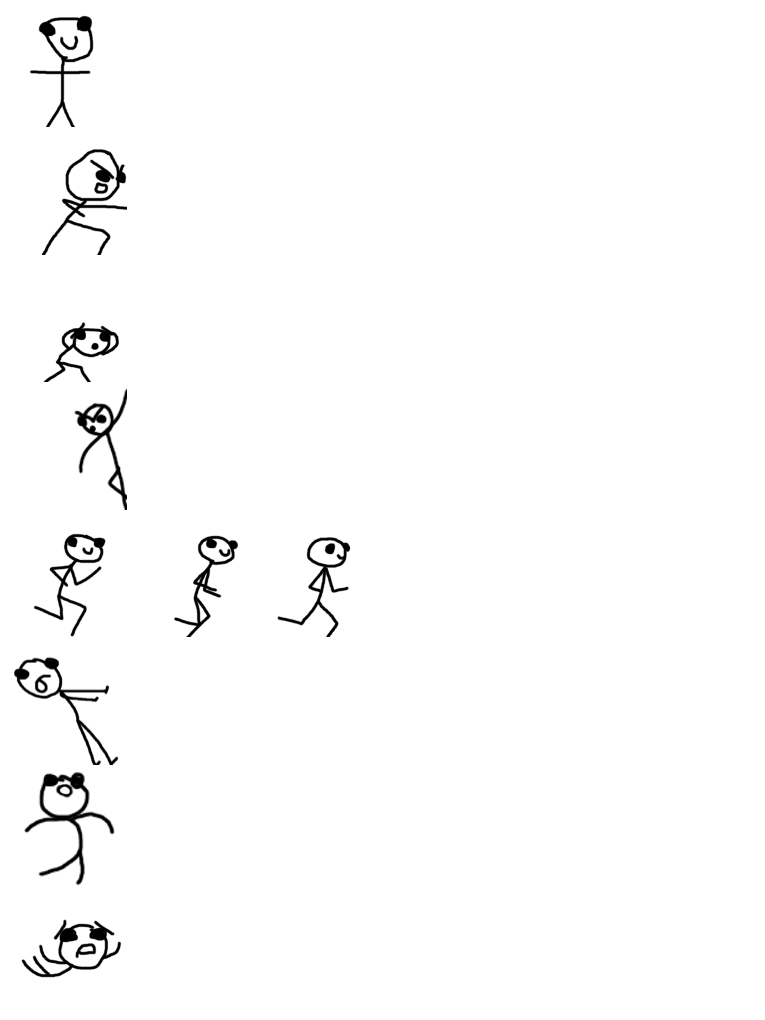
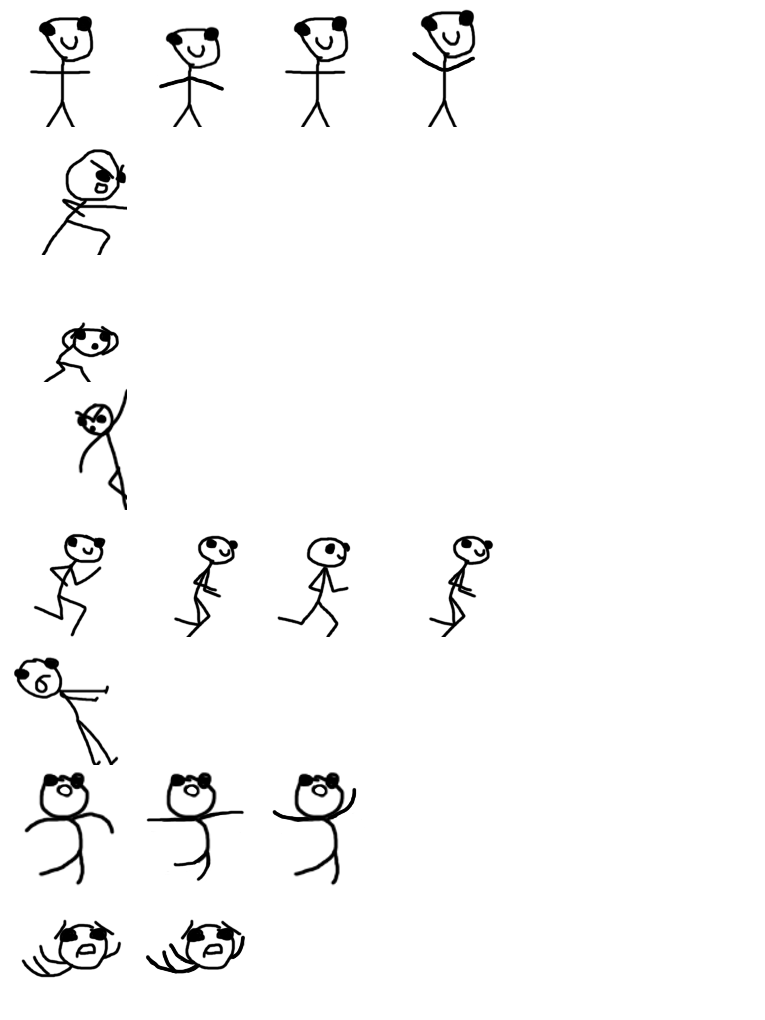
Funny aniamtion haha!

diff --git a/src/pages/home/game-objects/player.ts b/src/pages/home/game-objects/player.ts
@@ -40,7 +40,12 @@ const player = (
 	attacking: false,
 	src: "assets/images/player-atlas.png",
 	animationState: "idle",
-	frames: { run: { frames: 3, speed: 0.2 } },
+	frames: {
+		idle: { frames: 4, speed: 0.05 },
+		run: { frames: 4, speed: 0.15 },
+		jump: { frames: 3, speed: 0.2 },
+		fall: { frames: 2, speed: 0.1 },
+	},
 });
 
 export default player;

diff --git a/src/lib/spritesheet.ts b/src/lib/spritesheet.ts
@@ -71,7 +71,7 @@ export const spritesheet: Component<
 				context.drawImage(
 					atlas,
 					128 * Math.floor(animationFrame),
-					128 * 128 * Math.floor(animationFrame),
+					128 * 0,
 					128,
 					128,
 					0,
